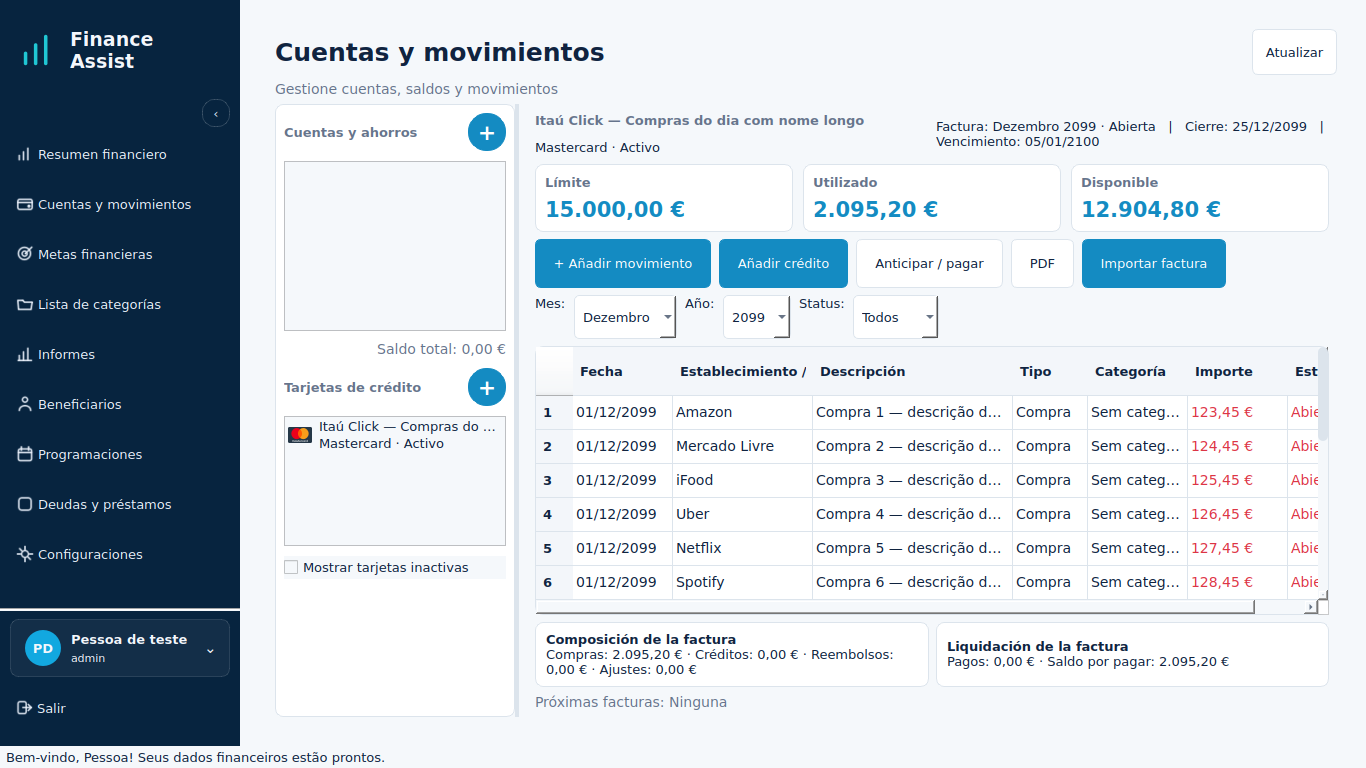
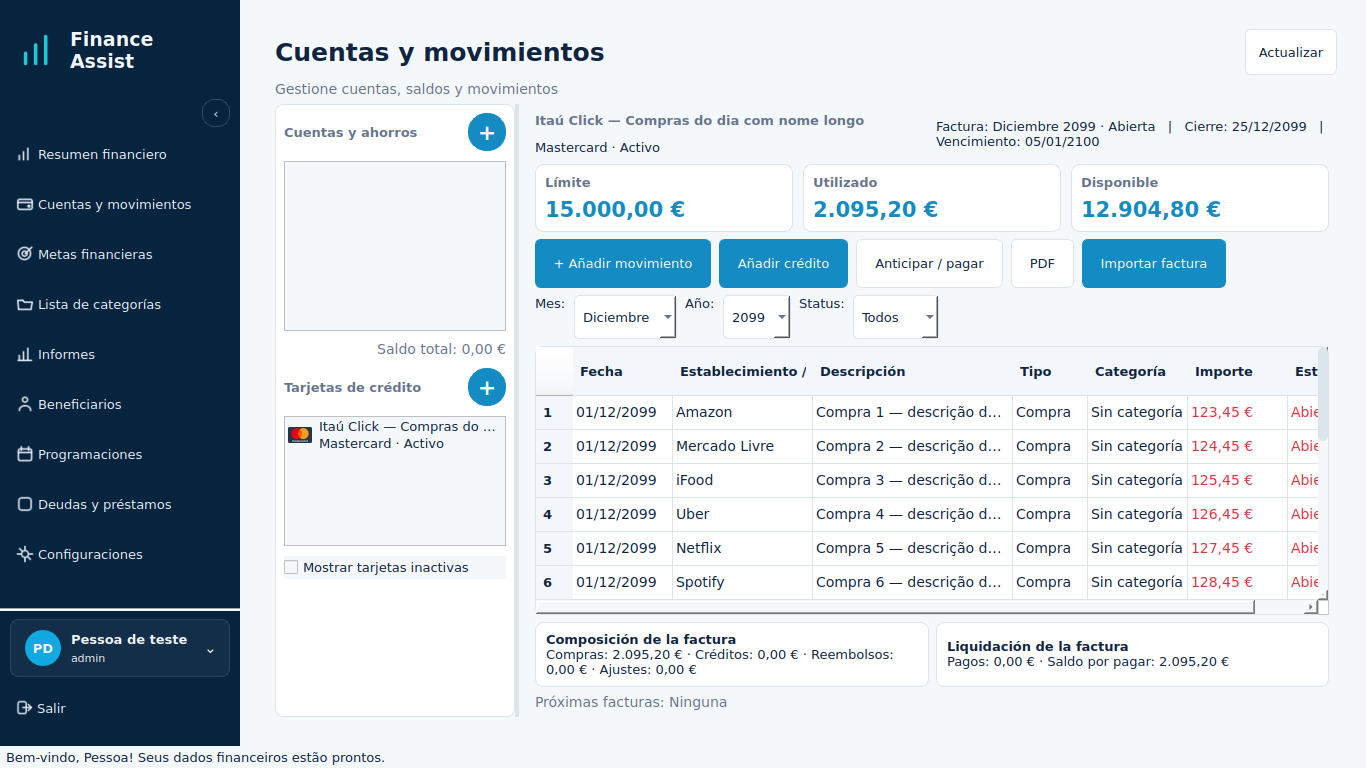
Completa traduções do painel e valida dados reais nos três idiomas

diff --git a/tests/integration/test_fatura_modernizada.py b/tests/integration/test_fatura_modernizada.py
@@ -1,5 +1,8 @@
 from datetime import date
 
+import pytest
+from core.translator_app import TranslatorApp
+
 from dateutil.relativedelta import relativedelta
 from PyPDF2 import PdfReader
 from PyQt5.QtWidgets import QApplication, QMessageBox
@@ -141,7 +144,9 @@ def test_exportacoes_pdf_possuem_titulo_tabela_total_e_multiplas_paginas(tmp_pat
     service.lancamento_model.close(); db.close()
 
 
-def test_painel_carrega_favorecido_real_sem_alterar_lancamentos(tmp_path, monkeypatch):
+@pytest.mark.parametrize('language', ['pt', 'en', 'es'])
+def test_painel_carrega_favorecido_real_sem_alterar_lancamentos(tmp_path, monkeypatch, language):
+    monkeypatch.setattr(TranslatorApp, '_current_lang', language)
     db, card, _ = _cenario(tmp_path, monkeypatch)
     favorecido = db.execute_insert(
         "INSERT INTO favorecido (Nome, Tipo, ID_Usuario) VALUES ('Comércio de teste', 'PJ', 1)"
@@ -161,6 +166,7 @@ def test_painel_carrega_favorecido_real_sem_alterar_lancamentos(tmp_path, monkey
     assert view.table.rowCount() == 2
     assert view.table.item(0, 1).text() == 'Comércio de teste'
     assert view.table.item(1, 1).text() == ''
+    assert view.table.item(0, 4).text() == TranslatorApp.get('Sem categoria')
     assert db.fetch_all('SELECT * FROM lancamentos ORDER BY ID_Lancamento') == before
     assert service.get_painel_cartao(card, 12, 2099, 1)['fatura']['compras'] == 160
     view.close(); app.processEvents(); db.close()

diff --git a/tests/interface/test_invoice_context_layout.py b/tests/interface/test_invoice_context_layout.py
@@ -3,6 +3,7 @@ import pytest
 from PyQt5.QtCore import Qt
 from PyQt5.QtWidgets import QApplication, QHeaderView
 from core.translator_app import TranslatorApp
+from core.session import Session
 from views.painel_fatura import PainelFatura
 
 
@@ -11,6 +12,7 @@ from views.painel_fatura import PainelFatura
 def test_context_and_flexible_table(monkeypatch, language, screen):
     app = QApplication.instance() or QApplication([])
     monkeypatch.setattr(TranslatorApp, '_current_lang', language)
+    monkeypatch.setattr(Session, 'configuracoes', {**Session.configuracoes, 'idioma': language})
     def no_fallback(*args, **kwargs):
         raise AssertionError(f"Missing offline translation: {args}")
     monkeypatch.setattr('services.argos_service.ArgosService.traduzir', no_fallback)
@@ -40,5 +42,6 @@ def test_context_and_flexible_table(monkeypatch, language, screen):
     assert panel.quitacao_label.geometry().bottom() < panel.height()
     assert 'Mastercard' in panel.card_context_label.text()
     assert '2099' in panel.invoice_context_label.text()
+    assert {'pt': 'Dezembro', 'en': 'December', 'es': 'Diciembre'}[language] in panel.invoice_context_label.text()
     assert panel.btn_pagar.isEnabled()
     panel.close()

diff --git a/views/painel_fatura.py b/views/painel_fatura.py
@@ -593,7 +593,10 @@ class PainelFatura(QWidget):
                 "ENCARGO": "Encargo",
                 "PAGAMENTO": "Pagamento",
             }.get(tipo, tipo))))
-            self.table.setItem(row, 4, QTableWidgetItem(str(item.get("Categoria") or TranslatorApp.get("Sem categoria"))))
+            categoria = item.get("Categoria")
+            if not categoria or (not item.get("ID_Categoria") and categoria == "Sem categoria"):
+                categoria = TranslatorApp.get("Sem categoria")
+            self.table.setItem(row, 4, QTableWidgetItem(str(categoria)))
 
             valor_item = QTableWidgetItem(CurrencyFormatter.format(valor))
             valor_item.setForeground(QColor(cor))
@@ -747,7 +750,7 @@ class PainelFatura(QWidget):
             self,
             TranslatorApp.get("Selecionar fatura"),
             "",
-            "Faturas PDF (*.pdf)",
+            TranslatorApp.get("Faturas PDF (*.pdf)"),
         )
         if not arquivo:
             return

diff --git a/views/transacao_view.py b/views/transacao_view.py
@@ -87,6 +87,8 @@ class TransacaoView(QWidget):
     # TRADUÇÃO
     # ==========================================================
     def _atualizar_textos(self, *_):
+        self.btn_recarregar.setText(TranslatorApp.get("Atualizar"))
+        self.btn_recarregar.setToolTip(TranslatorApp.get("Recarregar contas e cartões do banco"))
         self.setWindowTitle(
             TranslatorApp.get("Contas e Lançamentos")
         )

diff --git a/core/i18n_catalogs.py b/core/i18n_catalogs.py
@@ -1757,3 +1757,6 @@ CATALOGS['es'].update({'Estabelecimento / Favorecido': 'Establecimiento / Benefi
 
 CATALOGS['en'].update({'Fechamento': 'Closing date', 'Sem categoria': 'Uncategorized'})
 CATALOGS['es'].update({'Fechamento': 'Cierre', 'Sem categoria': 'Sin categoría'})
+
+CATALOGS['en'].update({'Faturas PDF (*.pdf)': 'PDF statements (*.pdf)'})
+CATALOGS['es'].update({'Faturas PDF (*.pdf)': 'Facturas PDF (*.pdf)'})

diff --git a/docs/PAINEL_FATURA_PUBLICACAO.md b/docs/PAINEL_FATURA_PUBLICACAO.md
@@ -19,7 +19,7 @@ A versão permanece **2.1.0-test.17**, Debian **2.1.0~test17**.
   acesso ao texto integral, inclusive nos nomes da lista lateral.
 - Tabela ocupa o espaço vertical disponível. Paginação aparece apenas quando
   necessária. Resumo inferior separado em composição e quitação da fatura.
-- Traduções offline PT-BR, EN e ES para os textos da nova apresentação.
+- Traduções offline PT-BR, EN e ES para a apresentação, categorias ausentes, filtros e atualização de idioma. Meses acompanham a configuração da sessão.
 
 Nenhuma alteração de schema, cálculo, ciclo, persistência ou regras de cartão
 ativo/inativo. Consultar e pagar dívida de cartão inativo continua permitido;
@@ -27,15 +27,15 @@ compras, créditos e importações continuam bloqueados pelas regras existentes.
 
 ## Validação e distribuição
 
-Regressão completa local: **462 testes aprovados**, zero falhas/erros/ignorados,
-15 avisos de depreciação de dependências, em 123,27 s.
+Regressão completa local: **464 testes aprovados**, zero falhas/erros/ignorados,
+15 avisos de depreciação de dependências, em 114,65 s.
 
 ```bash
 TMPDIR=/dev/shm/finance-assist-invoice-tests QT_QPA_PLATFORM=offscreen \
   .venv-finance-assist/bin/python -m pytest -q tests
 ```
 
-Rodada focada final: **101 testes aprovados**, um aviso de depreciação, em 10,10 s.
+Rodada focada final: **103 testes aprovados**, um aviso de depreciação, em 10,58 s.
 
 Inclui cálculos e ciclos de fatura, atomicidade, pagamentos parciais, cartão
 ativo/inativo, integridade, backup, catálogos offline e interface. Os nove novos
